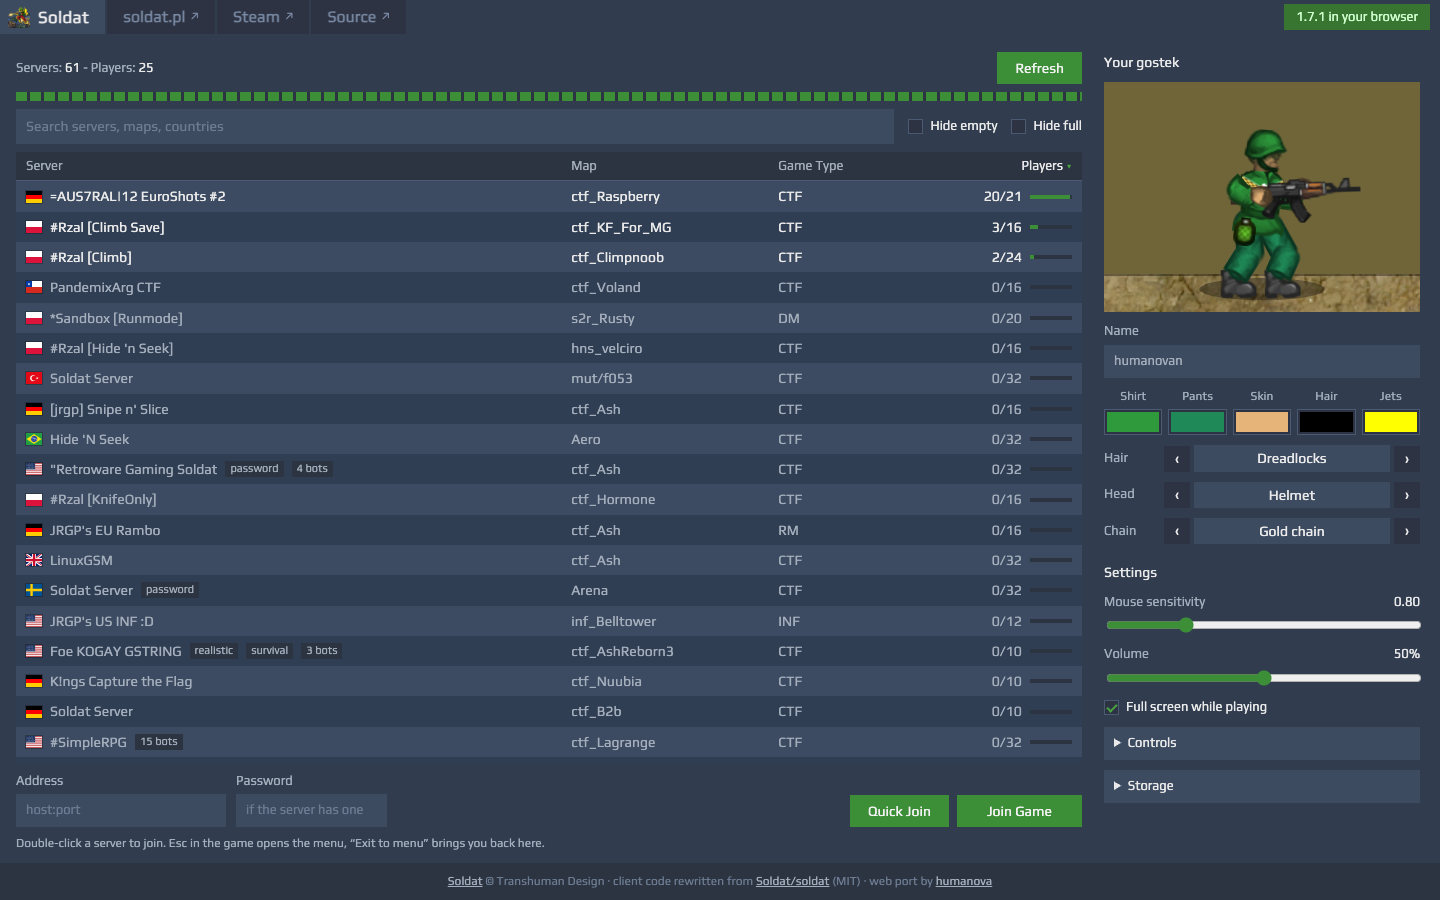
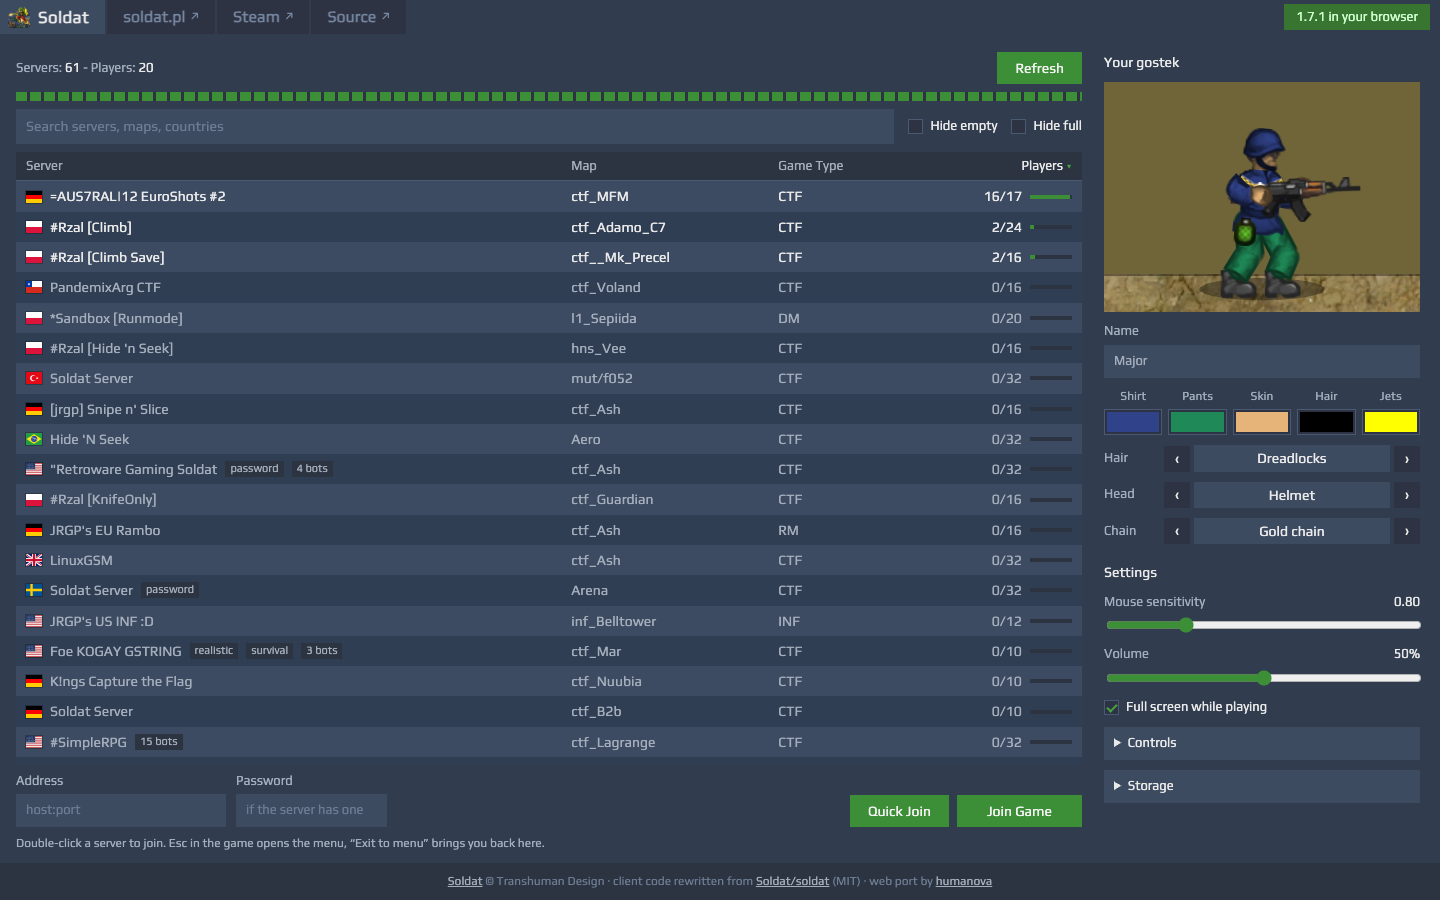
Soldat TV: humanovan in green; README menu screenshot back to the default gostek

diff --git a/web/spectate.html b/web/spectate.html
@@ -72,7 +72,7 @@
         <p>Watch <a href="https://soldat.pl/en/" target="_blank" rel="noopener">Soldat</a> matches live as
           they are played on the public servers. Soldat TV joins each server once as a spectator and
           passes the match on to everyone watching. You can't play or chat from here.</p>
-        <p>Contact <b>humanovan</b> on the <a href="https://discord.com/invite/soldat-234733999879094272" target="_blank" rel="noopener">Soldat Discord</a>
+        <p>Contact <b class="nick">humanovan</b> on the <a href="https://discord.com/invite/soldat-234733999879094272" target="_blank" rel="noopener">Soldat Discord</a>
           if you want your server to be included.</p>
       </div>
       <h2>Watching</h2>

diff --git a/web/spectate.css b/web/spectate.css
@@ -147,6 +147,7 @@ kbd { display: inline-block; min-width: 1.7em; padding: 0 .35em; background: var
 .notes h2 { margin: 6px 0 6px; font-size: 14px; font-weight: 400; color: var(--text); }
 .notes .box { background: var(--panel); padding: 12px 14px; margin-bottom: 20px; }
 .notes p { margin: 0; }
+.notes .nick { color: var(--green-hi); }
 .keys { display: grid; grid-template-columns: auto 1fr; gap: 8px 12px; margin: 0; align-items: center; }
 .keys dt { color: var(--text); white-space: nowrap; }
 .keys dd { margin: 0; }
